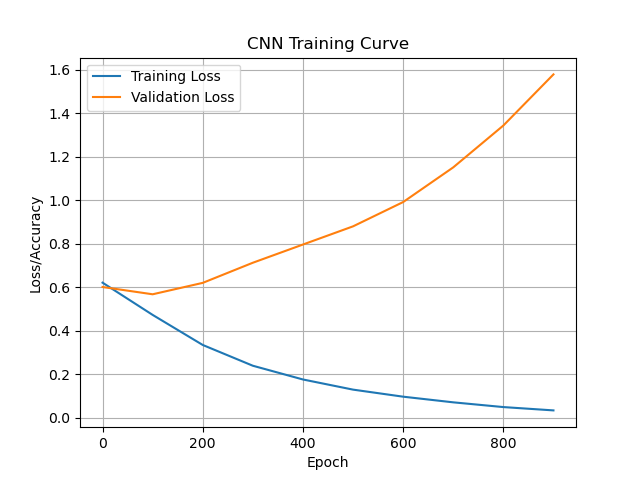
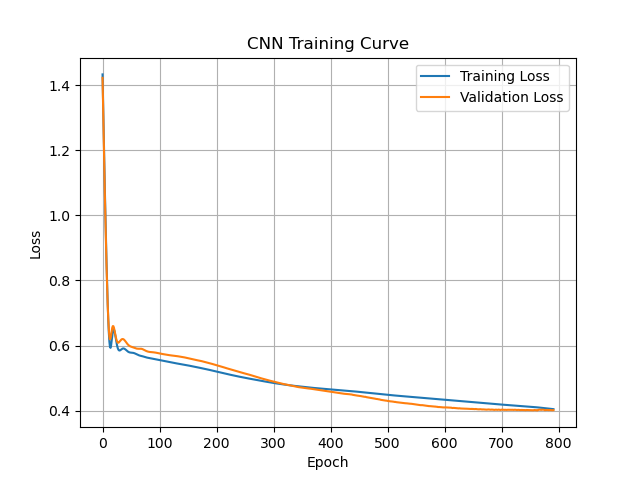
feat: implement early stopping

diff --git a/A/task_A_models.py b/A/task_A_models.py
@@ -171,6 +171,25 @@ class KNNModel:
         return roc_auc_score(y_true, y_pred)
 
 
+class EarlyStopping:
+    def __init__(self, patience: int = 5, delta: int = 0):
+        self.patience = patience # How many epochs to wait for improvement
+        self.delta = delta # Minimum change in monitored quantity to qualify as improvement
+        self.counter = 0 # Counter for patience
+        self.best_loss= None # Best score so far
+        self.early_stop = False # Whether to stop training
+
+    def __call__(self, val_loss):
+        if self.best_loss is None:
+            self.best_loss = val_loss # Set best less to the first loss
+        elif val_loss < self.best_loss - self.delta:
+            self.best_loss = val_loss
+            self.counter = 0
+        else:
+            self.counter += 1
+            if self.counter >= self.patience:
+                self.early_stop = True  # Stop training
+
 class CNNModel(nn.Module):
     def __init__(self):
         """
@@ -228,17 +247,20 @@ class CNNModelTrainer:
 
     def train(self):
         # TODO: Comment and add docstring
-        running_train_loss = 0.0
-        train_batch_count = 0
 
-        running_val_loss = 0.0
-        running_val_accuracy = 0.0
-        val_batch_count = 0
+        # Create instance of EarlyStopping class
+        early_stopping = EarlyStopping(patience=30)
 
         for epoch in range(self.epochs):
+            running_train_loss = 0.0
+            train_batch_count = 0
+            running_val_loss = 0.0
+            running_val_accuracy = 0.0
+            val_batch_count = 0
+
             # Train in batches
-            for batch_index, (images, labels) in enumerate(self.train_data):
-                self.cnn.train()
+            self.cnn.train()
+            for _, (images, labels) in enumerate(self.train_data):
                 self.optimiser.zero_grad()
                 outputs = self.cnn(images)
                 loss = self.loss_func(outputs, labels)
@@ -260,22 +282,23 @@ class CNNModelTrainer:
                     running_val_loss += loss.item()
                     val_batch_count += 1
 
+                    # Early stopping
+                    early_stopping(loss)
+                    if early_stopping.early_stop:
+                        break
+
+            if early_stopping.early_stop:
+                print("Early stopping")
+                break
+
+            self.train_losses.append(running_train_loss / train_batch_count)
+            self.val_losses.append(running_val_loss / val_batch_count)
+            self.val_accuracies.append(running_val_accuracy / val_batch_count)
+
             if epoch % 100 == 0:
-                avg_train_loss = running_train_loss / train_batch_count
-                avg_val_loss = running_val_loss / val_batch_count
-                avg_val_accuracy = running_val_accuracy / val_batch_count
-                self.train_losses.append(avg_train_loss)
-                self.val_losses.append(avg_val_loss)
-                self.val_accuracies.append(avg_val_accuracy)
-
-                running_train_loss = 0.0
-                train_batch_count = 0
-                running_val_loss = 0.0
-                running_val_accuracy = 0.0
-                val_batch_count = 0
-
-                print(f"Epoch: {epoch} | Train Loss: {avg_train_loss: .3f} | Val Loss: {avg_val_loss: .3f} | Val Accuracy: {avg_val_accuracy: .3f}")
+                print(f"Epoch: {epoch} | Train Loss: {self.train_losses[-1]: .3f} | Val Loss: {self.val_losses[-1]: .3f} | Val Accuracy: {self.val_accuracies[-1]: .3f}")
         print("\n")
+
 
     def evaluate(self):
         # TODO: Comment and add docstring
@@ -301,12 +324,11 @@ class CNNModelTrainer:
 
 
     def plot_training_curve(self):
-        epochs = range(0, self.epochs, 100)
         # Plot the training curve
-        plt.plot(epochs, self.train_losses, label="Training Loss")
-        plt.plot(epochs, self.val_losses, label="Validation Loss")
+        plt.plot(self.train_losses, label="Training Loss")
+        plt.plot(self.val_losses, label="Validation Loss")
         plt.xlabel("Epoch")
-        plt.ylabel("Loss/Accuracy")
+        plt.ylabel("Loss")
         plt.legend()
         plt.grid()
         plt.title("CNN Training Curve")
